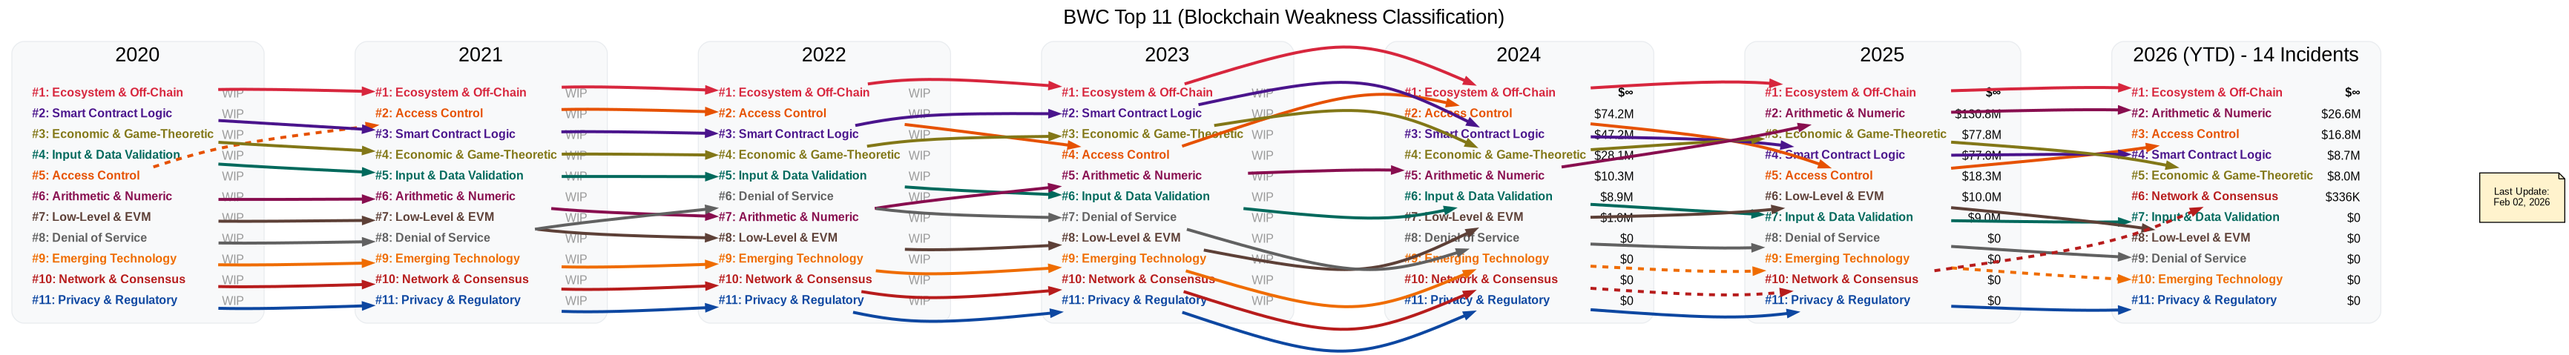
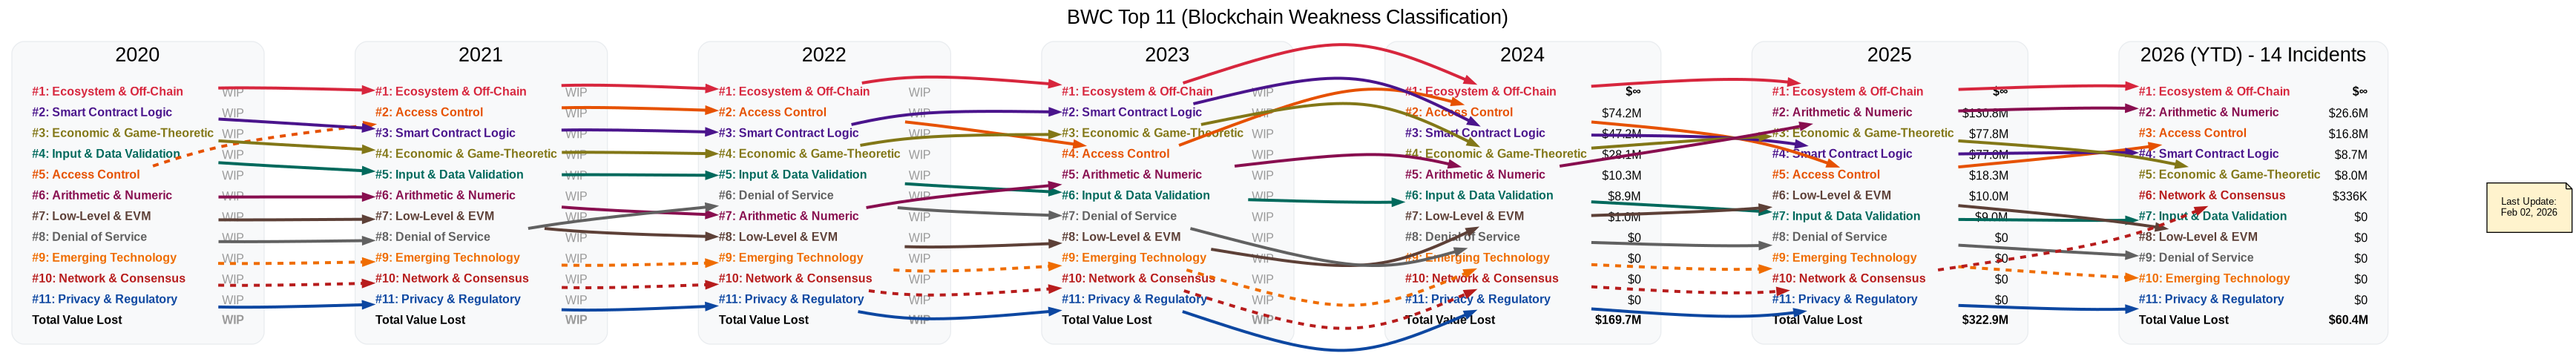
docs: style BWC 9 and 10 edges as dashed, add total value lost rows

diff --git a/docs/src/skills/bounty-hunting/SKILL.md b/docs/src/skills/bounty-hunting/SKILL.md
@@ -230,6 +230,7 @@ Use EIP-7702 to execute transactions from a compromised EOA without funding it w
             *   **Re-rank** the categories in the table by value lost (descending).
             *   **Update Rank Labels:** Ensure the labels (e.g., `#1`, `#2`) match the new row order (1 to 11).
             *   **Update Edges:** Update the graph edges at the bottom of the file to connect to the correct new ports (rows) for the current year.
+            *   **Update Totals:** Recalculate and update the "Total Value Lost" at the bottom of the table.
             *   Update the **"Last Update"** date at the bottom of the graph.
         *   Regenerate `docs/src/assets/BWC.png` from the updated dot file.
     *   **Note:** The dates do not have to be chronological.
